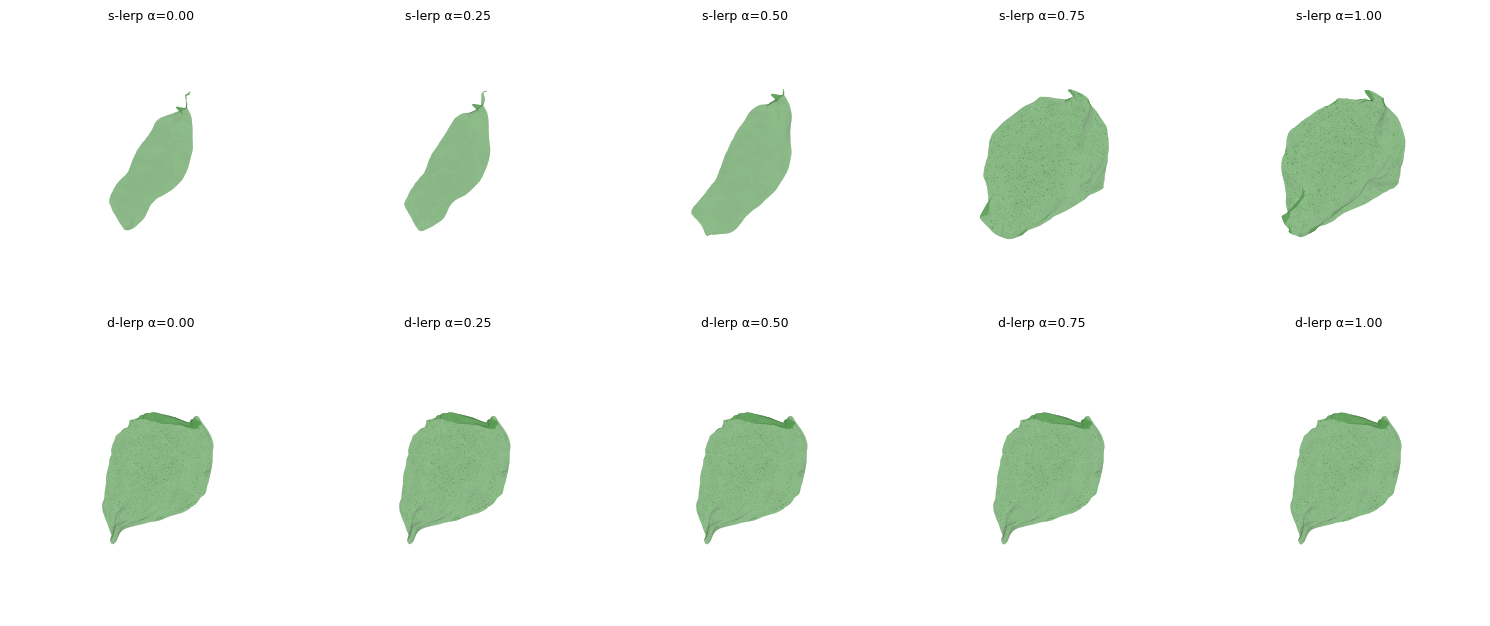
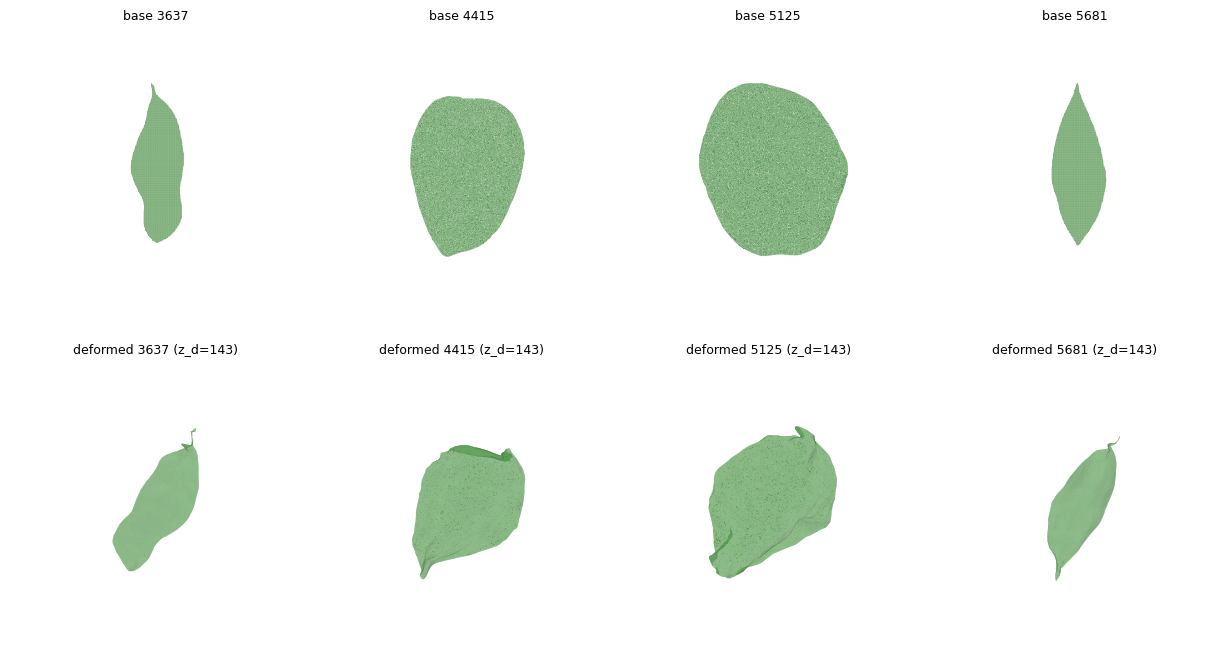
Enlarge notebook previews in README table

diff --git a/README.md b/README.md
@@ -6,18 +6,18 @@ Execution-verified Google Colab demonstrations for selected plant phenotyping pa
 
 ## Notebooks
 
-Thumbnails link directly to Colab. Each image is copied from a saved notebook output, not from a paper figure. Paper titles link to their individual PhenoPaper pages. Semantic tags are copied from the corresponding PhenoPaper record.
+Previews link to Colab. Images are taken from saved notebook outputs, not from paper figures; wide multi-panel results are cropped to a representative panel. Paper titles link to their individual PhenoPaper pages. Semantic tags are copied from the corresponding PhenoPaper record.
 
-| Preview | Paper and semantic tags | Demonstration |
-| --- | --- | --- |
-| <a href="https://colab.research.google.com/github/phytometrics/phenopaper-colab-notebooks/blob/main/notebooks/p-744d06547d0cf81dc008f601a6fe839c.ipynb"><img src="assets/previews/p-744d06547d0cf81dc008f601a6fe839c.png" width="220" alt="Leaf shape and deformation interpolation" /></a><br><sub>Leaf shape and deformation interpolation</sub> | **[NeuraLeaf: Disentangled Neural Parametric Modeling of Leaf Shape, Deformation, and Appearance](https://phenopaper.smartbreed-plant-phenotyping-platform.com/papers/p-744d06547d0cf81dc008f601a6fe839c)**<br><code>p-744d06547d0cf81dc008f601a6fe839c</code><br>[DOI](https://doi.org/10.1007/s11263-026-03024-6)<br><sub><b>Semantic tags:</b> modality:rgbd, organ:leaf, task:morphology, task:reconstruction, trait:leaf_traits</sub> | **T4 GPU**<br>Shape generation plus leaf deformation transfer and interpolation. The fitting example is a model-generated round-trip; appearance modeling and dataset-level benchmarks are outside this run.<br><a href="https://colab.research.google.com/github/phytometrics/phenopaper-colab-notebooks/blob/main/notebooks/p-744d06547d0cf81dc008f601a6fe839c.ipynb">Open notebook in Colab</a> |
-| <a href="https://colab.research.google.com/github/phytometrics/phenopaper-colab-notebooks/blob/main/notebooks/p-02f6f83e31a71dc69ce32db56b013ca3.ipynb"><img src="assets/previews/p-02f6f83e31a71dc69ce32db56b013ca3.png" width="220" alt="Grapevine seed silhouette and model overlay" /></a><br><sub>Grapevine seed silhouette and model overlay</sub> | **[Seed Morphology in Key Spanish Grapevine Cultivars](https://phenopaper.smartbreed-plant-phenotyping-platform.com/papers/p-02f6f83e31a71dc69ce32db56b013ca3)**<br><code>p-02f6f83e31a71dc69ce32db56b013ca3</code><br>[DOI](https://doi.org/10.20944/preprints202103.0578.v1)<br><sub><b>Semantic tags:</b> crop:grapevine, organ:seed, task:classification, task:morphology, trait:reproductive_traits</sub> | **CPU**<br>Seed silhouette/model overlap and J-index for Albillo Real (30 seeds). Single-cultivar demo; scale-calibration discrepancy is documented.<br><a href="https://colab.research.google.com/github/phytometrics/phenopaper-colab-notebooks/blob/main/notebooks/p-02f6f83e31a71dc69ce32db56b013ca3.ipynb">Open notebook in Colab</a> |
-| <a href="https://colab.research.google.com/github/phytometrics/phenopaper-colab-notebooks/blob/main/notebooks/p-076a5cd5ebdeed1a9ffaf2ec05b49074.ipynb"><img src="assets/previews/p-076a5cd5ebdeed1a9ffaf2ec05b49074.png" width="220" alt="Sorghum QTL profile: reproduced vs. author output" /></a><br><sub>Sorghum QTL profile: reproduced vs. author output</sub> | **[3D sorghum reconstructions from depth images enable identification of quantitative trait loci regulating shoot architecture](https://phenopaper.smartbreed-plant-phenotyping-platform.com/papers/p-076a5cd5ebdeed1a9ffaf2ec05b49074)**<br><code>p-076a5cd5ebdeed1a9ffaf2ec05b49074</code><br>[DOI](https://doi.org/10.1101/062174)<br><sub><b>Semantic tags:</b> crop:sorghum, environment:greenhouse, modality:rgbd, organ:leaf, organ:seed, organ:whole_plant, task:morphology, task:reconstruction, task:segmentation, trait:architecture, trait:leaf_traits, trait:plant_height</sub> | **CPU**<br>Compares the authors’ and reproduced chromosome 4 QTL profiles for sorghum leaf length. Depth-image acquisition and 3D reconstruction are documented but not executed.<br><a href="https://colab.research.google.com/github/phytometrics/phenopaper-colab-notebooks/blob/main/notebooks/p-076a5cd5ebdeed1a9ffaf2ec05b49074.ipynb">Open notebook in Colab</a> |
-| <a href="https://colab.research.google.com/github/phytometrics/phenopaper-colab-notebooks/blob/main/notebooks/p-0e108836e8a4514b8486db589101c1d8.ipynb"><img src="assets/previews/p-0e108836e8a4514b8486db589101c1d8.png" width="220" alt="Apple detections, amodal contours, and depth" /></a><br><sub>Apple detections, amodal contours, and depth</sub> | **[Looking behind occlusions: A study on amodal segmentation for robust on-tree apple fruit size estimation](https://phenopaper.smartbreed-plant-phenotyping-platform.com/papers/p-0e108836e8a4514b8486db589101c1d8)**<br><code>p-0e108836e8a4514b8486db589101c1d8</code><br>[DOI](https://doi.org/10.1016/j.compag.2023.107854)<br><sub><b>Semantic tags:</b> crop:apple, environment:field, modality:rgbd, organ:fruit, task:morphology, task:segmentation, trait:reproductive_traits</sub> | **CPU + T4 GPU**<br>Amodal segmentation contours and depth maps for two apple images. Both runtime paths were validated; the saved outputs use CPU. Not a test-set performance evaluation.<br><a href="https://colab.research.google.com/github/phytometrics/phenopaper-colab-notebooks/blob/main/notebooks/p-0e108836e8a4514b8486db589101c1d8.ipynb">Open notebook in Colab</a> |
-| <a href="https://colab.research.google.com/github/phytometrics/phenopaper-colab-notebooks/blob/main/notebooks/p-0f6c6d73a489f456dd530c51fce2b6f8.ipynb"><img src="assets/previews/p-0f6c6d73a489f456dd530c51fce2b6f8.png" width="220" alt="Rice-root aerenchyma segmentation overlays" /></a><br><sub>Rice-root aerenchyma segmentation overlays</sub> | **[Deep aerenchyma: a transformer-based pipeline for scalable phenotyping of rice root aerenchyma lacunae across environments.](https://phenopaper.smartbreed-plant-phenotyping-platform.com/papers/p-0f6c6d73a489f456dd530c51fce2b6f8)**<br><code>p-0f6c6d73a489f456dd530c51fce2b6f8</code><br>[DOI](https://doi.org/10.1186/s13007-026-01546-1)<br><sub><b>Semantic tags:</b> crop:rice, organ:root, organ:tissue, task:morphology, task:segmentation, trait:root_architecture</sub> | **CPU**<br>Segmentation overlays for three rice-root images. Not a multi-environment dataset-scale evaluation.<br><a href="https://colab.research.google.com/github/phytometrics/phenopaper-colab-notebooks/blob/main/notebooks/p-0f6c6d73a489f456dd530c51fce2b6f8.ipynb">Open notebook in Colab</a> |
-| <a href="https://colab.research.google.com/github/phytometrics/phenopaper-colab-notebooks/blob/main/notebooks/p-4471692ed96241966f8a065745f5ce8b.ipynb"><img src="assets/previews/p-4471692ed96241966f8a065745f5ce8b.png" width="220" alt="Stomata detections and aperture annotations" /></a><br><sub>Stomata detections and aperture annotations</sub> | **[DeepStomata: Facial Recognition Technology for Automated Stomatal Aperture Measurement](https://phenopaper.smartbreed-plant-phenotyping-platform.com/papers/p-4471692ed96241966f8a065745f5ce8b)**<br><code>p-4471692ed96241966f8a065745f5ce8b</code><br>[DOI](https://doi.org/10.1101/365098)<br><sub><b>Semantic tags:</b> organ:stomata, task:classification, task:object_detection, task:segmentation, trait:stomatal_traits</sub> | **CPU**<br>Stomata detections, four-class labels, and aperture overlays on one author-provided image. Paper-wide performance is not claimed.<br><a href="https://colab.research.google.com/github/phytometrics/phenopaper-colab-notebooks/blob/main/notebooks/p-4471692ed96241966f8a065745f5ce8b.ipynb">Open notebook in Colab</a> |
-| <a href="https://colab.research.google.com/github/phytometrics/phenopaper-colab-notebooks/blob/main/notebooks/p-cac607b350005b99ef850fe315328b02.ipynb"><img src="assets/previews/p-cac607b350005b99ef850fe315328b02.png" width="220" alt="Seasonal EVI and estimated phenological stages" /></a><br><sub>Seasonal EVI and estimated phenological stages</sub> | **[Operational Framework for Field-Scale Crop Sowing and Emergence Date Estimation Using Daily Synthetic Harmonized Landsat Sentinel-2 Time Series](https://phenopaper.smartbreed-plant-phenotyping-platform.com/papers/p-cac607b350005b99ef850fe315328b02)**<br><code>p-cac607b350005b99ef850fe315328b02</code><br>[DOI](https://doi.org/10.34133/remotesensing.0878)<br><sub><b>Semantic tags:</b> crop:maize, crop:soybean, environment:field, modality:spectral, organ:whole_plant, task:time_series, trait:growth_development</sub> | **CPU**<br>Seasonal EVI fit and estimated phenological stages for one site-year (`goodwaterbau`, 2023). Not a multi-site reproduction.<br><a href="https://colab.research.google.com/github/phytometrics/phenopaper-colab-notebooks/blob/main/notebooks/p-cac607b350005b99ef850fe315328b02.ipynb">Open notebook in Colab</a> |
-| <a href="https://colab.research.google.com/github/phytometrics/phenopaper-colab-notebooks/blob/main/notebooks/p-3f9aa46c732dc37158c82721d4b77927.ipynb"><img src="assets/previews/p-3f9aa46c732dc37158c82721d4b77927.png" width="220" alt="Litchi flower density maps and foreground masks" /></a><br><sub>Litchi flower density maps and foreground masks</sub> | **[FQGR-net: Morphology-based litchi flower quantification and gender recognition.](https://phenopaper.smartbreed-plant-phenotyping-platform.com/papers/p-3f9aa46c732dc37158c82721d4b77927)**<br><code>p-3f9aa46c732dc37158c82721d4b77927</code><br>[DOI](https://doi.org/10.1016/j.plaphe.2026.100217)<br><sub><b>Semantic tags:</b> environment:field, organ:flower, task:classification, task:counting, trait:reproductive_traits</sub> | **T4 GPU**<br>Predicted male/female flower-density maps and masks on two author-provided samples. Not the 1,150-image benchmark; the code repository declares no license.<br><a href="https://colab.research.google.com/github/phytometrics/phenopaper-colab-notebooks/blob/main/notebooks/p-3f9aa46c732dc37158c82721d4b77927.ipynb">Open notebook in Colab</a> |
+| Paper and run details | Preview |
+| --- | --- |
+| **[NeuraLeaf: Disentangled Neural Parametric Modeling of Leaf Shape, Deformation, and Appearance](https://phenopaper.smartbreed-plant-phenotyping-platform.com/papers/p-744d06547d0cf81dc008f601a6fe839c)**<br><code>p-744d06547d0cf81dc008f601a6fe839c</code><br>[DOI](https://doi.org/10.1007/s11263-026-03024-6)<br><b>Runtime:</b> T4 GPU<br><b>Demonstration:</b> Shape generation plus leaf deformation transfer and interpolation. The fitting example is a model-generated round-trip; appearance modeling and dataset-level benchmarks are outside this run.<br><b>Semantic tags:</b> modality:rgbd, organ:leaf, task:morphology, task:reconstruction, trait:leaf_traits<br><a href="https://colab.research.google.com/github/phytometrics/phenopaper-colab-notebooks/blob/main/notebooks/p-744d06547d0cf81dc008f601a6fe839c.ipynb">Open notebook in Colab</a> | <a href="https://colab.research.google.com/github/phytometrics/phenopaper-colab-notebooks/blob/main/notebooks/p-744d06547d0cf81dc008f601a6fe839c.ipynb"><img src="assets/previews/p-744d06547d0cf81dc008f601a6fe839c.png" width="360" alt="Leaf shape and deformation results across four examples" /></a><br><sub>Leaf shape and deformation results across four examples</sub> |
+| **[Seed Morphology in Key Spanish Grapevine Cultivars](https://phenopaper.smartbreed-plant-phenotyping-platform.com/papers/p-02f6f83e31a71dc69ce32db56b013ca3)**<br><code>p-02f6f83e31a71dc69ce32db56b013ca3</code><br>[DOI](https://doi.org/10.20944/preprints202103.0578.v1)<br><b>Runtime:</b> CPU<br><b>Demonstration:</b> Seed silhouette/model overlap and J-index for Albillo Real (30 seeds). Single-cultivar demo; scale-calibration discrepancy is documented.<br><b>Semantic tags:</b> crop:grapevine, organ:seed, task:classification, task:morphology, trait:reproductive_traits<br><a href="https://colab.research.google.com/github/phytometrics/phenopaper-colab-notebooks/blob/main/notebooks/p-02f6f83e31a71dc69ce32db56b013ca3.ipynb">Open notebook in Colab</a> | <a href="https://colab.research.google.com/github/phytometrics/phenopaper-colab-notebooks/blob/main/notebooks/p-02f6f83e31a71dc69ce32db56b013ca3.ipynb"><img src="assets/previews/p-02f6f83e31a71dc69ce32db56b013ca3.png" width="360" alt="Grapevine seed image and model overlap" /></a><br><sub>Grapevine seed image and model overlap</sub> |
+| **[3D sorghum reconstructions from depth images enable identification of quantitative trait loci regulating shoot architecture](https://phenopaper.smartbreed-plant-phenotyping-platform.com/papers/p-076a5cd5ebdeed1a9ffaf2ec05b49074)**<br><code>p-076a5cd5ebdeed1a9ffaf2ec05b49074</code><br>[DOI](https://doi.org/10.1101/062174)<br><b>Runtime:</b> CPU<br><b>Demonstration:</b> Compares the authors’ and reproduced chromosome 4 QTL profiles for sorghum leaf length. Depth-image acquisition and 3D reconstruction are documented but not executed.<br><b>Semantic tags:</b> crop:sorghum, environment:greenhouse, modality:rgbd, organ:leaf, organ:seed, organ:whole_plant, task:morphology, task:reconstruction, task:segmentation, trait:architecture, trait:leaf_traits, trait:plant_height<br><a href="https://colab.research.google.com/github/phytometrics/phenopaper-colab-notebooks/blob/main/notebooks/p-076a5cd5ebdeed1a9ffaf2ec05b49074.ipynb">Open notebook in Colab</a> | <a href="https://colab.research.google.com/github/phytometrics/phenopaper-colab-notebooks/blob/main/notebooks/p-076a5cd5ebdeed1a9ffaf2ec05b49074.ipynb"><img src="assets/previews/p-076a5cd5ebdeed1a9ffaf2ec05b49074.png" width="360" alt="Sorghum chromosome 4 QTL profile comparison" /></a><br><sub>Sorghum chromosome 4 QTL profile comparison</sub> |
+| **[Looking behind occlusions: A study on amodal segmentation for robust on-tree apple fruit size estimation](https://phenopaper.smartbreed-plant-phenotyping-platform.com/papers/p-0e108836e8a4514b8486db589101c1d8)**<br><code>p-0e108836e8a4514b8486db589101c1d8</code><br>[DOI](https://doi.org/10.1016/j.compag.2023.107854)<br><b>Runtime:</b> CPU + T4 GPU<br><b>Demonstration:</b> Amodal segmentation contours and depth maps for two apple images. Both runtime paths were validated; the saved outputs use CPU. Not a test-set performance evaluation.<br><b>Semantic tags:</b> crop:apple, environment:field, modality:rgbd, organ:fruit, task:morphology, task:segmentation, trait:reproductive_traits<br><a href="https://colab.research.google.com/github/phytometrics/phenopaper-colab-notebooks/blob/main/notebooks/p-0e108836e8a4514b8486db589101c1d8.ipynb">Open notebook in Colab</a> | <a href="https://colab.research.google.com/github/phytometrics/phenopaper-colab-notebooks/blob/main/notebooks/p-0e108836e8a4514b8486db589101c1d8.ipynb"><img src="assets/previews/p-0e108836e8a4514b8486db589101c1d8.png" width="360" alt="Apple detections, amodal contours, and depth map" /></a><br><sub>Apple detections, amodal contours, and depth map</sub> |
+| **[Deep aerenchyma: a transformer-based pipeline for scalable phenotyping of rice root aerenchyma lacunae across environments.](https://phenopaper.smartbreed-plant-phenotyping-platform.com/papers/p-0f6c6d73a489f456dd530c51fce2b6f8)**<br><code>p-0f6c6d73a489f456dd530c51fce2b6f8</code><br>[DOI](https://doi.org/10.1186/s13007-026-01546-1)<br><b>Runtime:</b> CPU<br><b>Demonstration:</b> Segmentation overlays for three rice-root images. Not a multi-environment dataset-scale evaluation.<br><b>Semantic tags:</b> crop:rice, organ:root, organ:tissue, task:morphology, task:segmentation, trait:root_architecture<br><a href="https://colab.research.google.com/github/phytometrics/phenopaper-colab-notebooks/blob/main/notebooks/p-0f6c6d73a489f456dd530c51fce2b6f8.ipynb">Open notebook in Colab</a> | <a href="https://colab.research.google.com/github/phytometrics/phenopaper-colab-notebooks/blob/main/notebooks/p-0f6c6d73a489f456dd530c51fce2b6f8.ipynb"><img src="assets/previews/p-0f6c6d73a489f456dd530c51fce2b6f8.png" width="360" alt="Rice-root aerenchyma segmentation overlays" /></a><br><sub>Rice-root aerenchyma segmentation overlays</sub> |
+| **[DeepStomata: Facial Recognition Technology for Automated Stomatal Aperture Measurement](https://phenopaper.smartbreed-plant-phenotyping-platform.com/papers/p-4471692ed96241966f8a065745f5ce8b)**<br><code>p-4471692ed96241966f8a065745f5ce8b</code><br>[DOI](https://doi.org/10.1101/365098)<br><b>Runtime:</b> CPU<br><b>Demonstration:</b> Stomata detections, four-class labels, and aperture overlays on one author-provided image. Paper-wide performance is not claimed.<br><b>Semantic tags:</b> organ:stomata, task:classification, task:object_detection, task:segmentation, trait:stomatal_traits<br><a href="https://colab.research.google.com/github/phytometrics/phenopaper-colab-notebooks/blob/main/notebooks/p-4471692ed96241966f8a065745f5ce8b.ipynb">Open notebook in Colab</a> | <a href="https://colab.research.google.com/github/phytometrics/phenopaper-colab-notebooks/blob/main/notebooks/p-4471692ed96241966f8a065745f5ce8b.ipynb"><img src="assets/previews/p-4471692ed96241966f8a065745f5ce8b.png" width="360" alt="Detected stomata with aperture annotations" /></a><br><sub>Detected stomata with aperture annotations</sub> |
+| **[Operational Framework for Field-Scale Crop Sowing and Emergence Date Estimation Using Daily Synthetic Harmonized Landsat Sentinel-2 Time Series](https://phenopaper.smartbreed-plant-phenotyping-platform.com/papers/p-cac607b350005b99ef850fe315328b02)**<br><code>p-cac607b350005b99ef850fe315328b02</code><br>[DOI](https://doi.org/10.34133/remotesensing.0878)<br><b>Runtime:</b> CPU<br><b>Demonstration:</b> Seasonal EVI fit and estimated phenological stages for one site-year (`goodwaterbau`, 2023). Not a multi-site reproduction.<br><b>Semantic tags:</b> crop:maize, crop:soybean, environment:field, modality:spectral, organ:whole_plant, task:time_series, trait:growth_development<br><a href="https://colab.research.google.com/github/phytometrics/phenopaper-colab-notebooks/blob/main/notebooks/p-cac607b350005b99ef850fe315328b02.ipynb">Open notebook in Colab</a> | <a href="https://colab.research.google.com/github/phytometrics/phenopaper-colab-notebooks/blob/main/notebooks/p-cac607b350005b99ef850fe315328b02.ipynb"><img src="assets/previews/p-cac607b350005b99ef850fe315328b02.png" width="360" alt="Seasonal EVI and estimated phenological stages" /></a><br><sub>Seasonal EVI and estimated phenological stages</sub> |
+| **[FQGR-net: Morphology-based litchi flower quantification and gender recognition.](https://phenopaper.smartbreed-plant-phenotyping-platform.com/papers/p-3f9aa46c732dc37158c82721d4b77927)**<br><code>p-3f9aa46c732dc37158c82721d4b77927</code><br>[DOI](https://doi.org/10.1016/j.plaphe.2026.100217)<br><b>Runtime:</b> T4 GPU<br><b>Demonstration:</b> Predicted male/female flower-density maps and masks on two author-provided samples. Not the 1,150-image benchmark; the code repository declares no license.<br><b>Semantic tags:</b> environment:field, organ:flower, task:classification, task:counting, trait:reproductive_traits<br><a href="https://colab.research.google.com/github/phytometrics/phenopaper-colab-notebooks/blob/main/notebooks/p-3f9aa46c732dc37158c82721d4b77927.ipynb">Open notebook in Colab</a> | <a href="https://colab.research.google.com/github/phytometrics/phenopaper-colab-notebooks/blob/main/notebooks/p-3f9aa46c732dc37158c82721d4b77927.ipynb"><img src="assets/previews/p-3f9aa46c732dc37158c82721d4b77927.png" width="360" alt="Litchi flowers with male/female point annotations" /></a><br><sub>Litchi flowers with male/female point annotations</sub> |
 
 ## Validation and limitations
 
